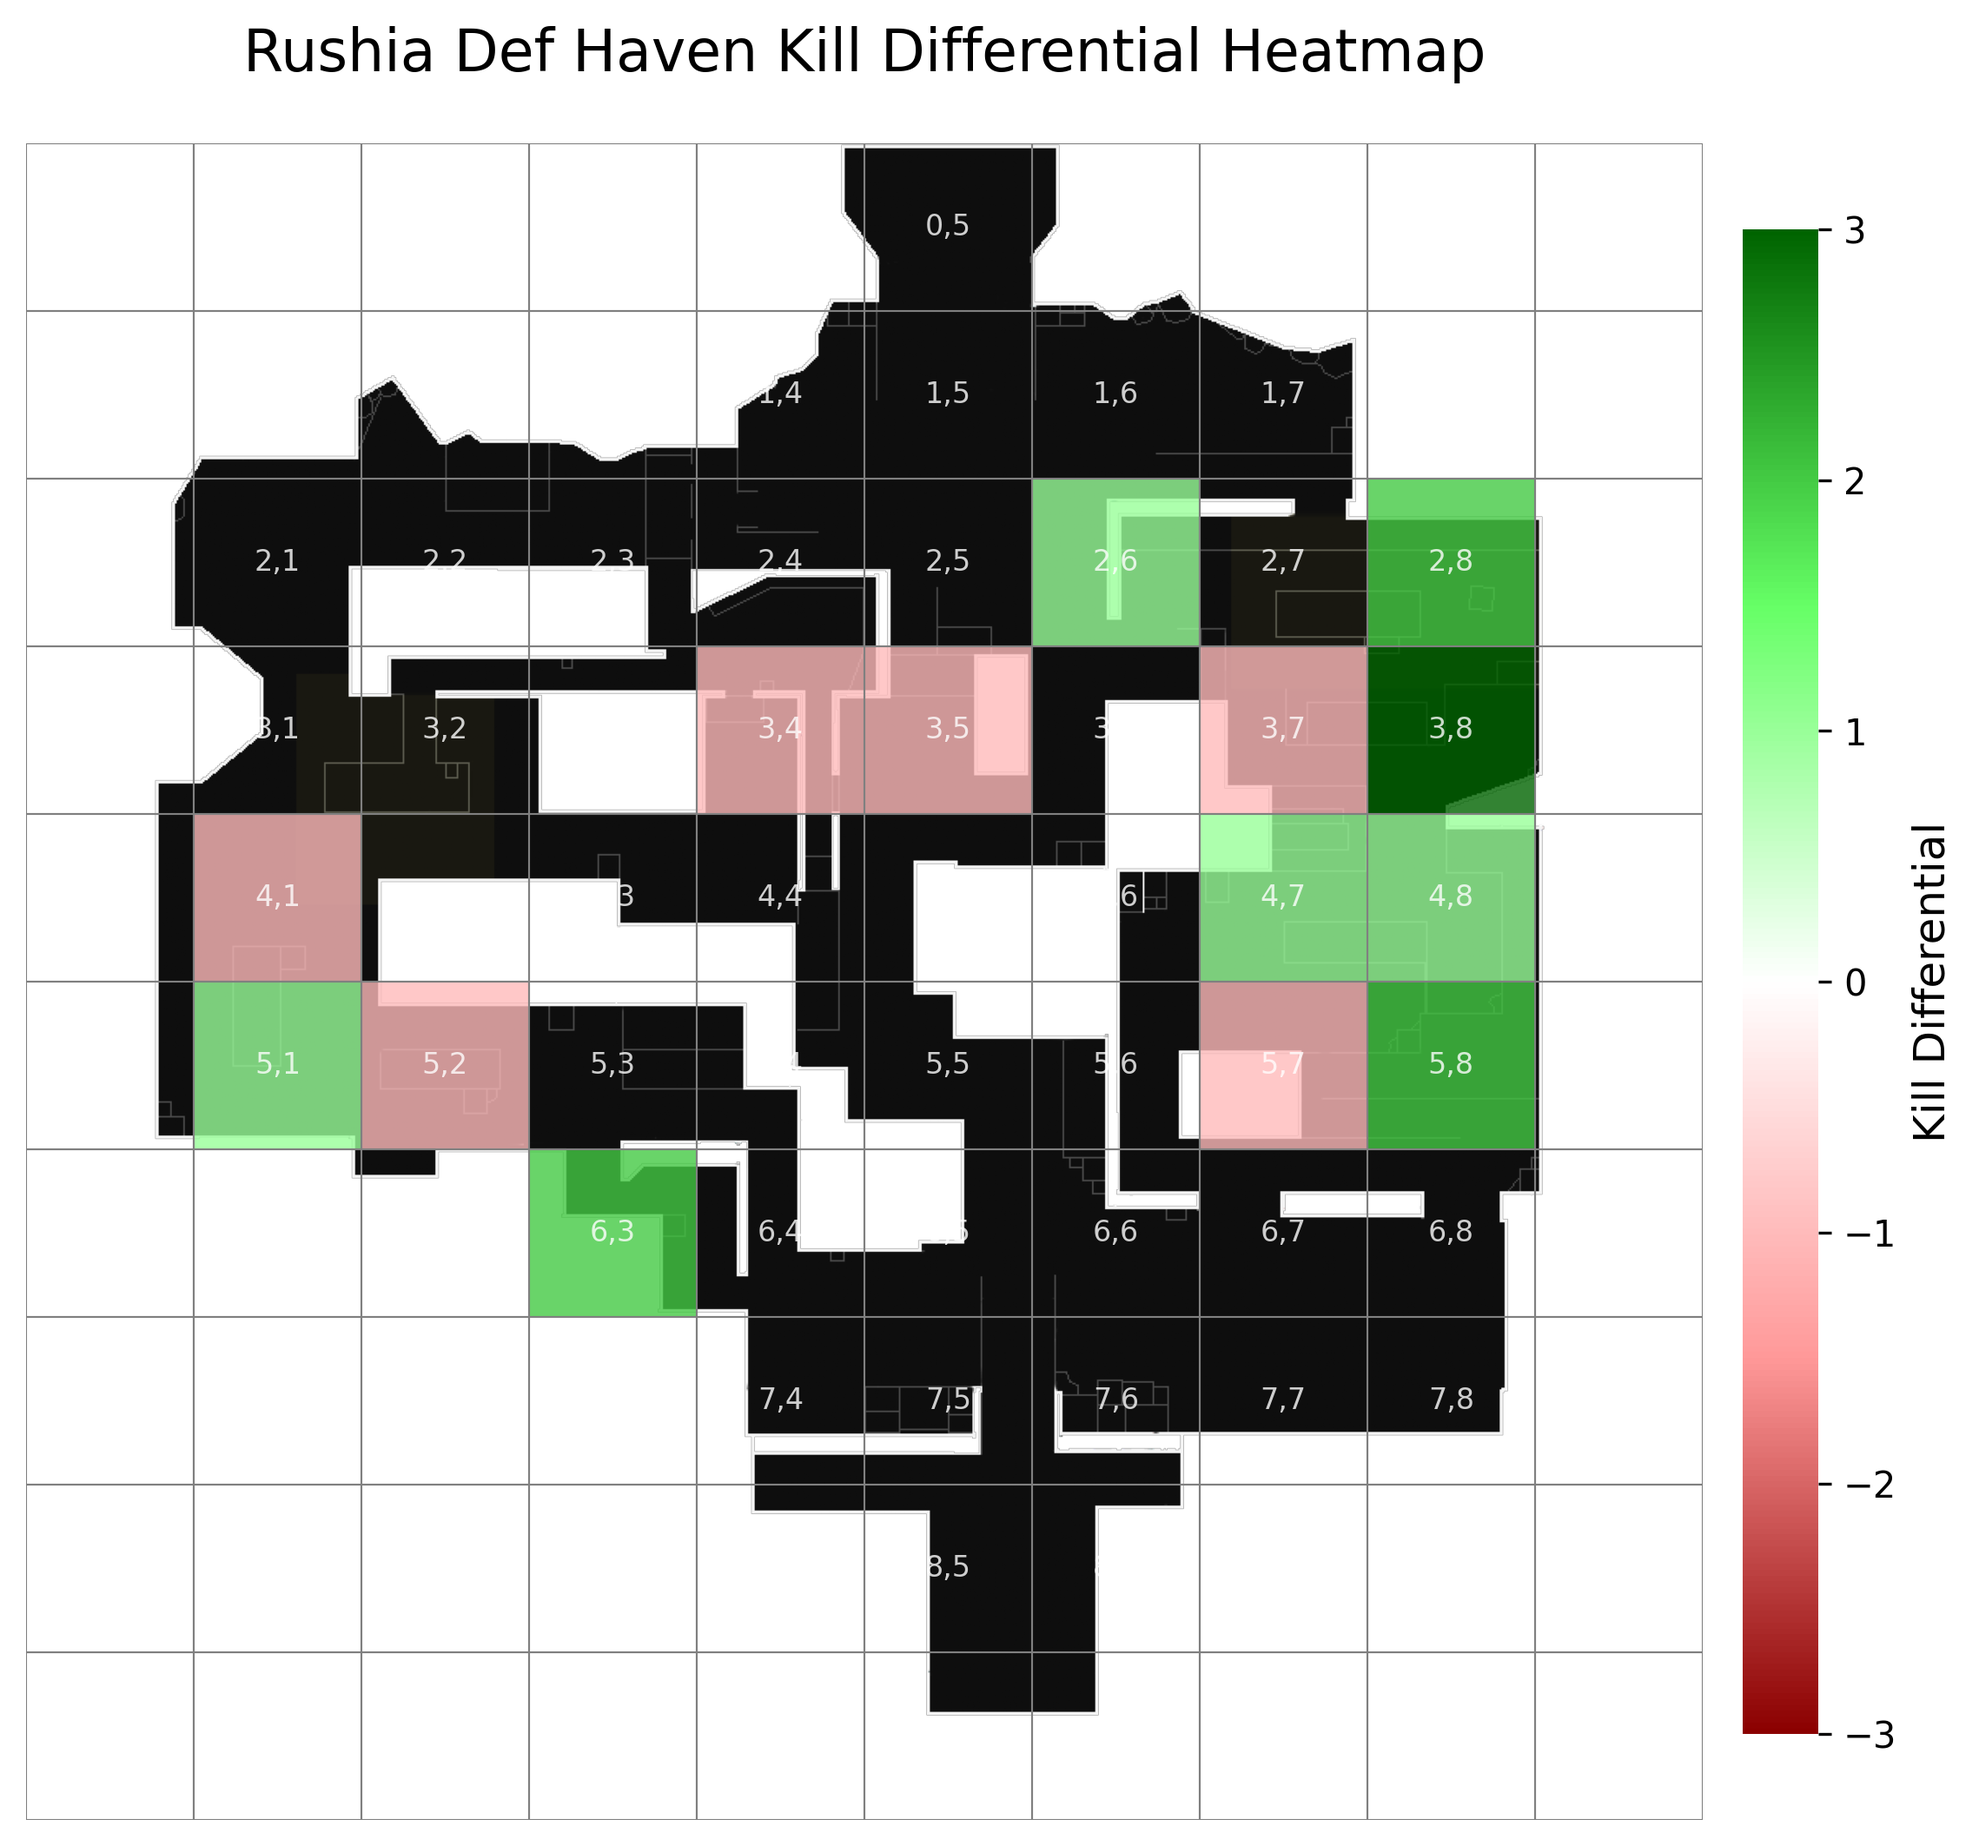
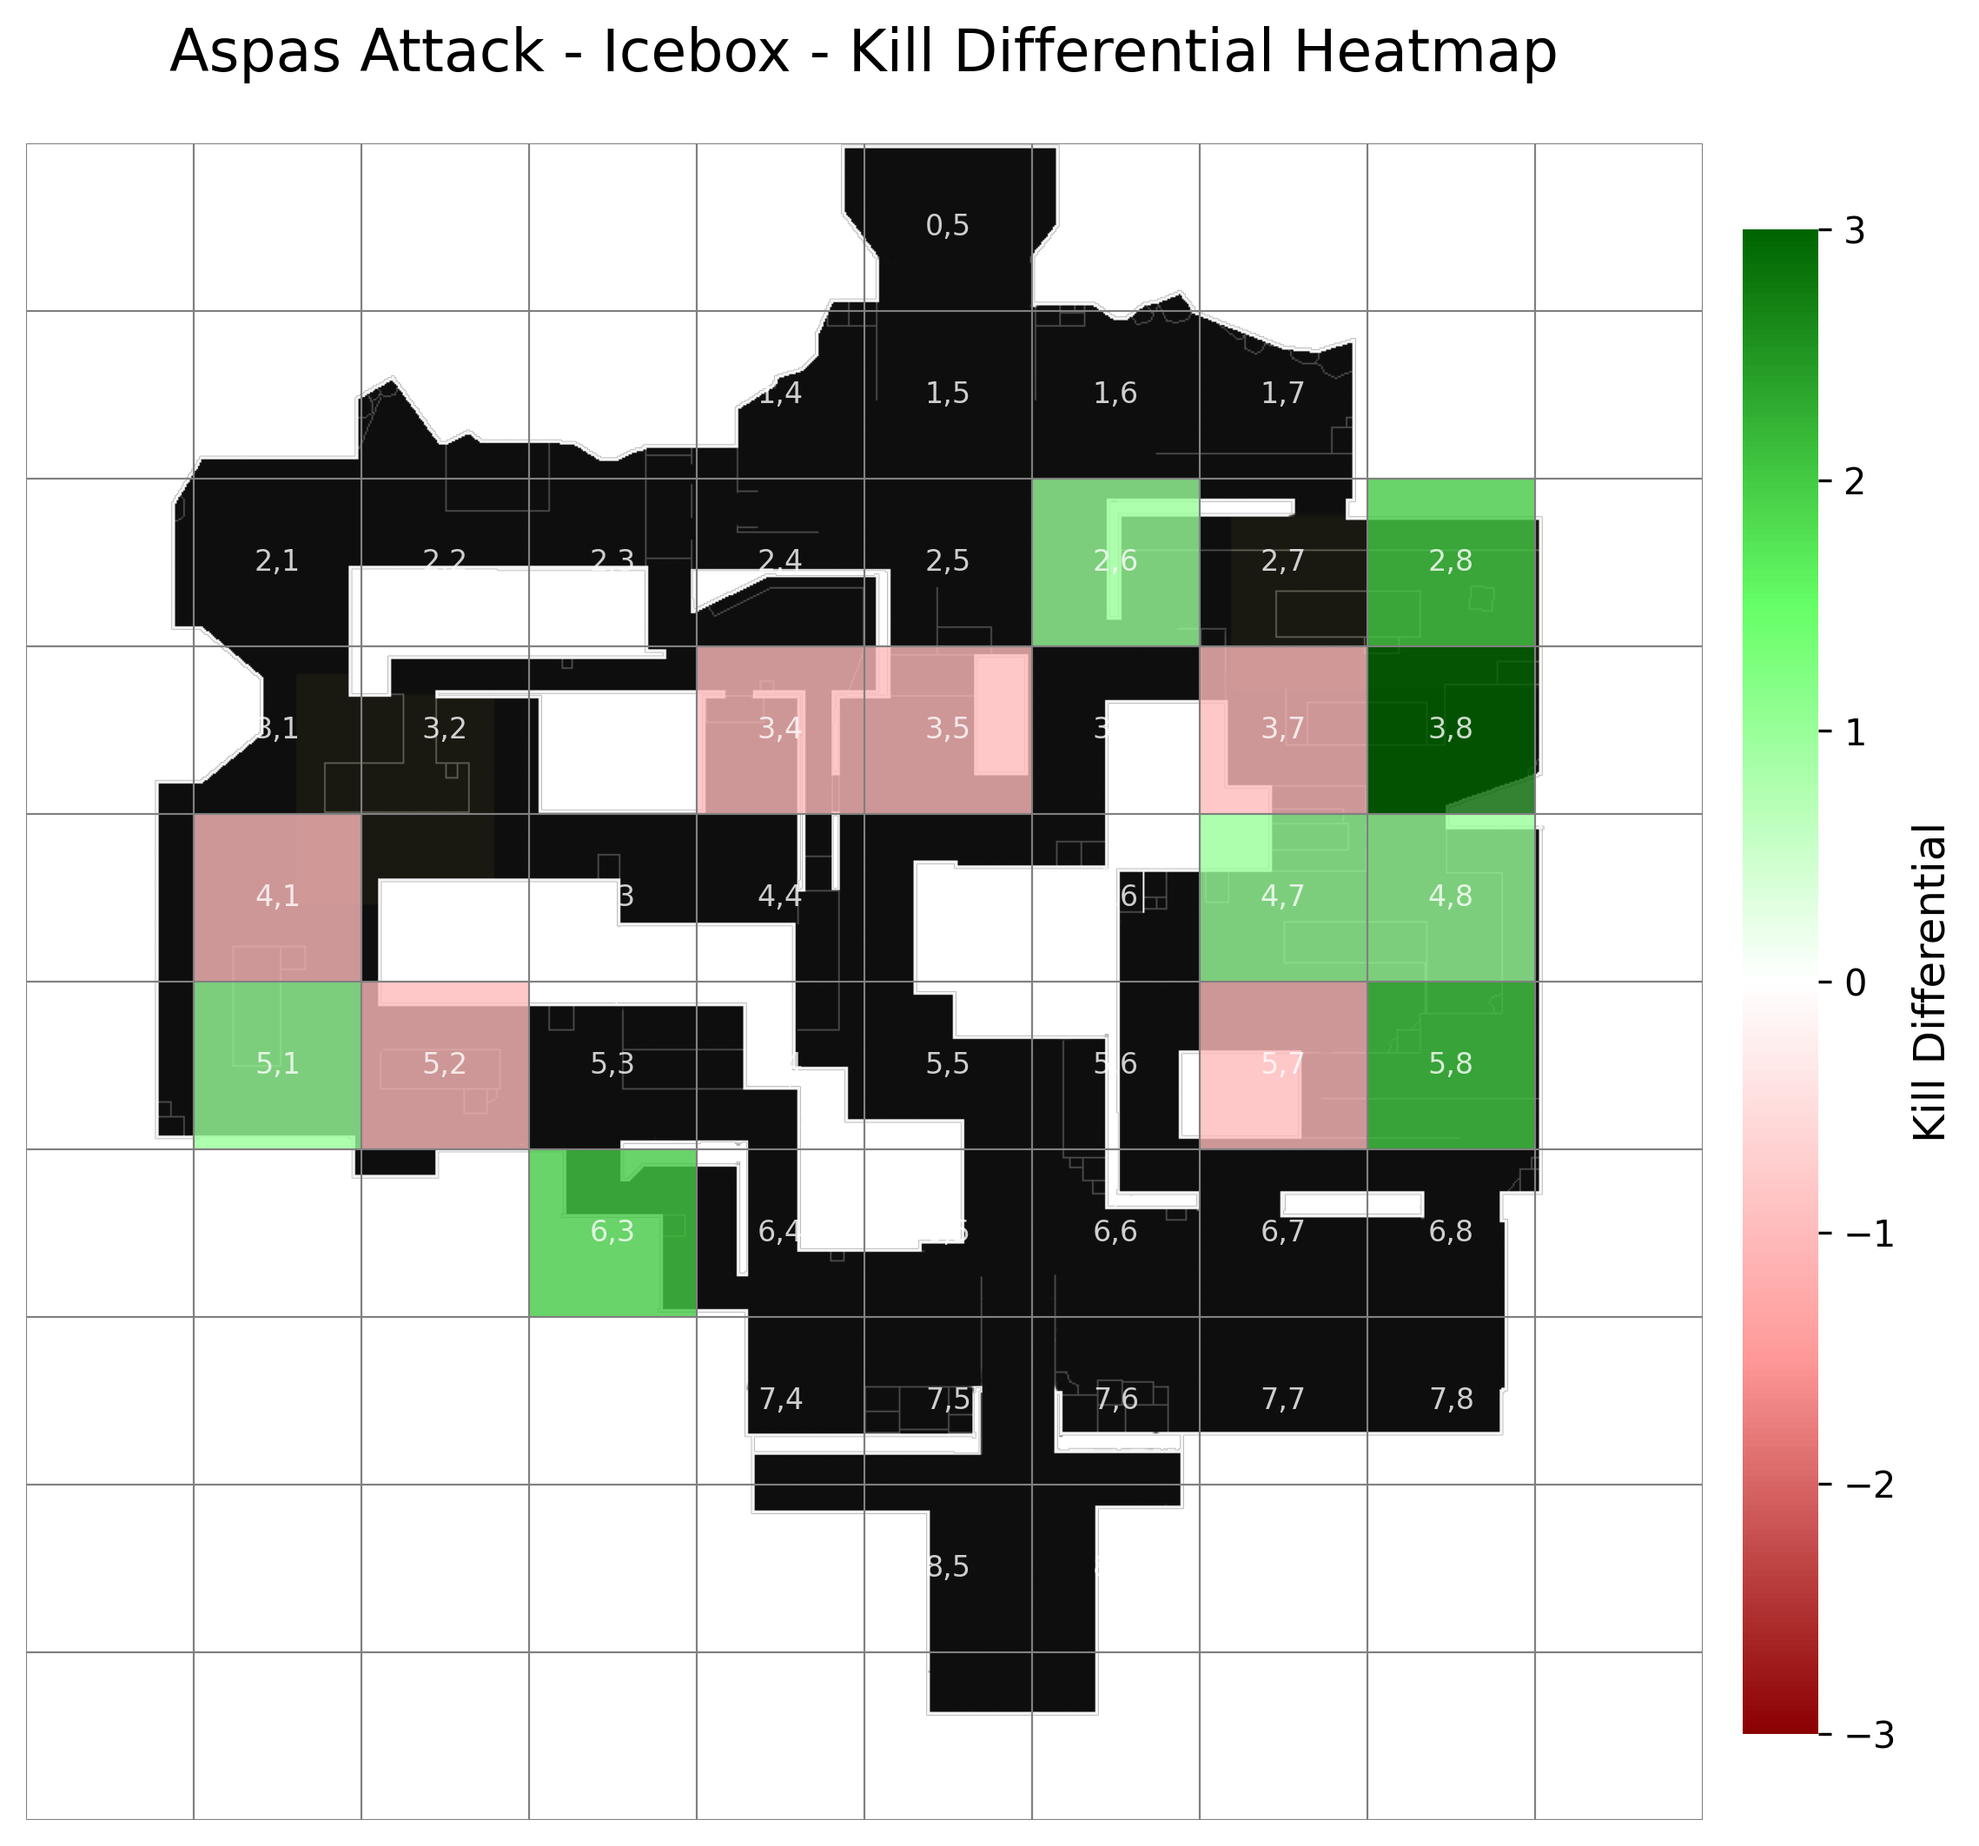
custom labelling

Changed region(s): [[0.0935, 0.0, 0.7792, 0.0621]]

diff --git a/main.py b/main.py
@@ -4,6 +4,7 @@ import matplotlib.pyplot as plt
 import matplotlib.patches as patches
 import matplotlib.colors as mcolors
 import re
+import os  # <-- NEW: for dynamic title
 
 # --- Load Map ---
 map_path = 'maps/Icebox.png'
@@ -12,6 +13,12 @@ try:
 except FileNotFoundError:
     print(f"Map image not found at {map_path}")
     exit(1)
+
+# --- Extract map name dynamically ---
+map_name = os.path.basename(map_path).split('.')[0]
+
+# --- Ask user for a custom label (team names, player, side, etc.) ---
+match_label = input("Enter match label (e.g., 'Aspas Attack', 'DRX vs PRX'):\n").strip()
 
 # --- Read CSV ---
 df = pd.read_csv('demo_data.csv', dtype=str)
@@ -46,7 +53,7 @@ for _, row in df.iterrows():
     kills = int(kills_match.group(1))
     deaths = int(deaths_match.group(1))
 
-    # If you trust 'Differential' you could parse it, but we recalculate for safety
+    # We still recalculate diff just in case
     diff = kills - deaths
     engagements = kills + deaths
 
@@ -77,20 +84,20 @@ if np.isnan(max_engage):
 engage_norm = plt.Normalize(vmin=0, vmax=max_engage)
 
 # --- Ask user what to generate ---
-choice = input("What heatmap do you want to generate? (diff / engage / both): ").strip().lower()
+choice = input("What heatmap do you want to generate? (diff / engage):\n").strip().lower()
 
 if choice in ['diff', 'engage']:
     fig, ax = plt.subplots(figsize=(10, 10))
     ax.imshow(img, extent=[0, 10, 10, 0])
 
     if choice == 'diff':
-        title = 'Rushia Def Haven Kill Differential Heatmap'
+        title_type = 'Kill Differential Heatmap'
         grid_data = diff_grid
         cmap = diff_cmap
         norm = diff_norm
         color_label = 'Kill Differential'
     else:
-        title = 'Aspas Atk Icebox Engagement Heatmap'
+        title_type = 'Engagement Heatmap'
         grid_data = engage_grid
         cmap = engage_cmap
         norm = engage_norm
@@ -125,14 +132,13 @@ if choice in ['diff', 'engage']:
     cbar.outline.set_visible(False)
     cbar.set_label(color_label, fontsize=12)
 
-    ax.set_title(title, fontsize=16, pad=20)
+    # ✅ Dynamic title here!
+    ax.set_title(f"{match_label} - {map_name} - {title_type}", fontsize=16, pad=20)
     ax.set_axis_off()
     output_file = f'demo_heatmap_{choice}.png'
     plt.savefig(output_file, bbox_inches='tight', dpi=300)
     print(f"Saved {output_file}")
     plt.show()
 
-elif choice == 'both':
-    print("Both option is not enabled (since you asked for toggle-only mode). Please run again and select 'diff' or 'engage'.")
 else:
     print("Invalid choice. Please run the script again and enter diff or engage.")

diff --git a/README.md b/README.md
@@ -1,12 +1,103 @@
-# Valogrids Demo
+# 🗺 Valorgrids: Tactical Heatmaps for Valorant
 
-🟢 **valogrids** is a Python tool to generate Valorant map heatmaps based on CSV data.
+**Valorgrids** is a Python-based tool that creates **grid-based heatmaps** on Valorant maps, visualizing **Kill Differential** and **Engagements** (Kills + Deaths) per zone. This helps coaches, analysts, and players spot tactical patterns across maps like Haven, Icebox, and more.
 
-## How to use
+---
 
-1. Place your `demo_data.csv` (format: coordinate, kills, deaths, differential).
-2. Put your Valorant map images inside the `maps/` folder.
-3. Run:
+## ✨ Features
+
+- 📊 Kill Differential Heatmap: Visualizes kill vs. death balance on each grid square.
+- 🔴 Engagement Heatmap: Highlights zones with the most fights (Kills + Deaths combined).
+- 🖼 Custom map backgrounds (e.g., Haven, Icebox).
+- 🔧 Toggle between Kill Diff and Engagements when running.
+- 🗂 CSV-based input for flexibility.
+- 📈 High-res PNG output.
+
+---
+
+## 🚀 How It Works
+
+To use Valorgrids, clone the repository and make sure you have Python 3.8+ with the following packages installed:
+
+- `pandas`
+- `numpy`
+- `matplotlib`
+
+You can install everything via:
 
 ```bash
-python main.py
+pip install -r requirements.txt
+```
+
+Place your map image (for example, `Haven.png`) inside the `maps/` folder. Your CSV file should look like this:
+
+| Coordinate | Kills    | Deaths    | Differential |
+|------------|----------|-----------|--------------|
+| 3,8        | 4 kills  | 1 deaths  | +3           |
+| 5,8        | 2 kills  | 0 deaths  | +2           |
+| 3,7        | 1 kills  | 2 deaths  | -1           |
+
+➡ **Columns:**
+- `Coordinate`: grid position as `y,x` (row,column),
+- `Kills`: number of kills (e.g., `4 kills`),
+- `Deaths`: number of deaths (e.g., `1 deaths`),
+- `Differential`: (optional, it's recalculated anyway).
+
+Once ready, run the script:
+
+```bash
+python valorgrids.py
+```
+
+You'll be prompted:
+
+```
+What heatmap do you want to generate? (diff / engage):
+```
+
+- Type `diff` to generate the Kill Differential Heatmap.
+- Type `engage` to generate the Engagements Heatmap.
+
+The output PNG file will be saved in your working directory as:
+- `demo_heatmap_diff.png`
+- `demo_heatmap_engage.png`
+
+---
+
+## 🖼 Example Outputs
+
+| Kill Differential                            | Engagements                              |
+|---------------------------------------------|------------------------------------------|
+| ![Kill Diff](demo_heatmap_diff.png)         | ![Engage](demo_heatmap_engage.png)        |
+
+---
+
+## 📂 Folder Structure
+
+```
+valorgrids/
+├── maps/
+│   └── Haven.png
+├── demo_data.csv
+├── valorgrids.py
+├── requirements.txt
+└── README.md
+```
+
+---
+
+## ✍ Credits
+
+Built by [@Ominousx](https://github.com/Ominousx) 🎮
+
+For any feedback, feel free to:
+- 🐛 Open an issue here on GitHub,
+- 💬 Connect with me on [Twitter/X @Ominousx](https://twitter.com/Ominousx)
+
+---
+
+## 💡 Roadmap
+
+- [ ] Streamlit web interface.
+- [ ] Auto-detect map & title from data.
+- [ ] Support for other stats (e.g., assists, plants).
